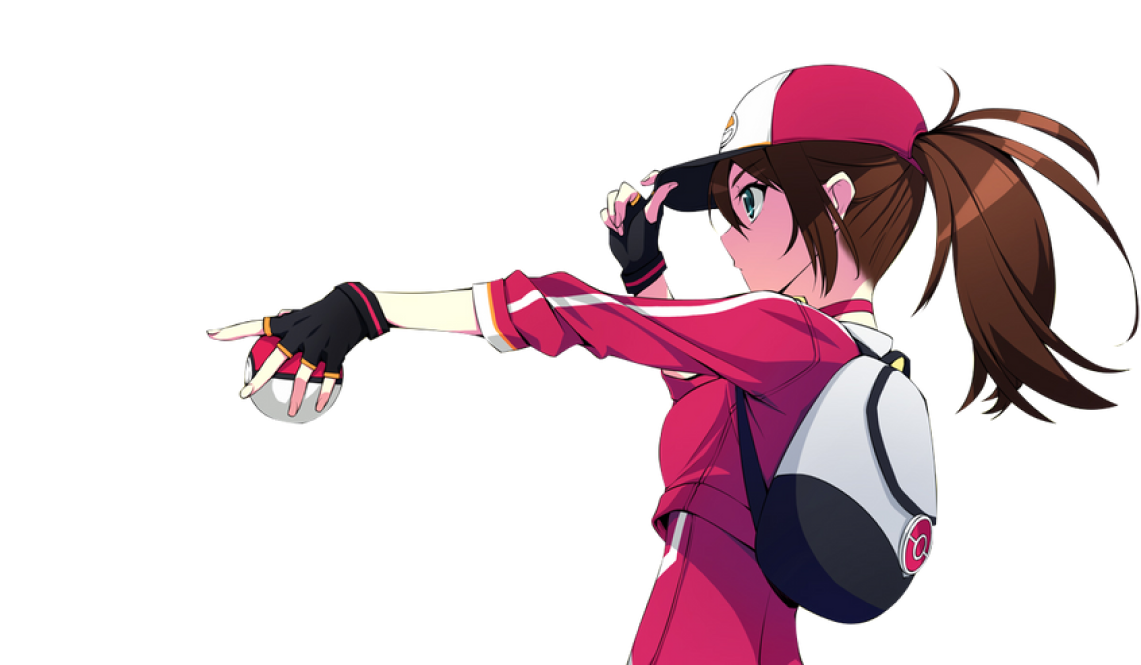
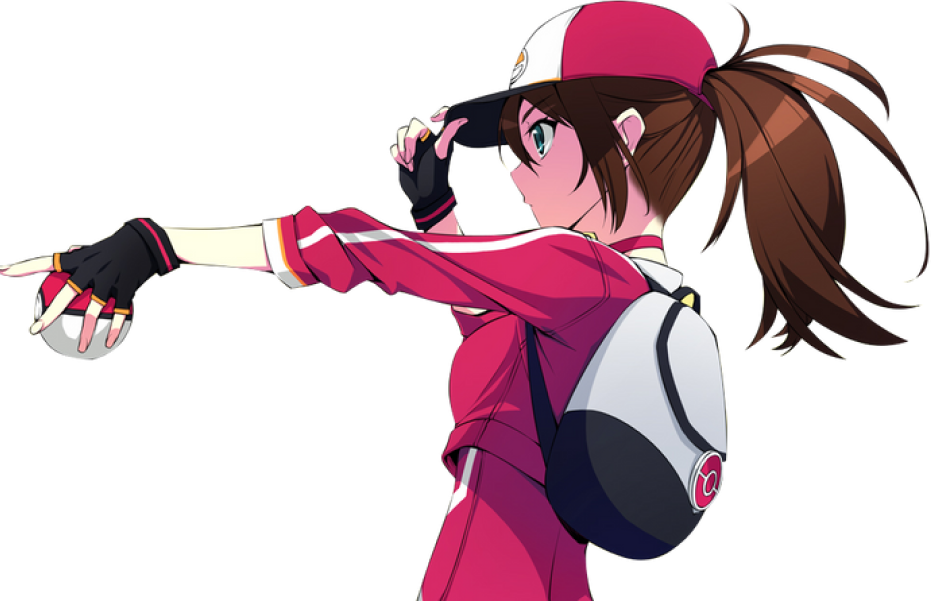
problemas de reponsividades resolvidos

diff --git a/pokedex/src/pages/Home/index.jsx b/pokedex/src/pages/Home/index.jsx
@@ -10,33 +10,36 @@ const Main = styled.div`
   background-image: url(${background}) ;
   background-size: cover ;
   min-height: 100vh ;
-  min-width: 100vh ;
 `
 
 const Logo = styled.div`
-  height: 27vh;
+  margin-left: auto ;
+  margin-right: auto ;
+  height: 28.5vh ;
+  width: 45%;
   display: flex;
   justify-content: center;
 `
 
 const ImgLogo = styled.img`
-  height: 58vh ;
-  margin-top: -10.2vh ;
-  
+  width: 100% ;
+  padding: 10px ;
 `
 
 const Person = styled.div`
-  bottom: 5px ;
+  margin-right: 2px ;
+  margin-bottom: -10px ;
 `
 
 const ImgPerson = styled.img`
-  height: 64vh ;
-  margin-bottom: -5px ;
+  width: 100% ;
+  height: 65vh ;
 `
 
 const Container = styled.div`
+  width: 100% ;
   display: flex ;
-  justify-content: flex-end;
+  justify-content: space-between;
   align-items: center;
   position: fixed ;
   bottom: 0px ;
@@ -45,22 +48,19 @@ const Container = styled.div`
 const DivButton = styled.div`
   display: flex ;
   justify-content: center;
-  width: 95vh ;
+  width: 50.1% ;
+  height: 10vh ;
 `
 
 const Button = styled.button`
-  margin-right: 17% ;
-  height: 8.5vh ;
-  width: 33.5% ;
-  font-size: 140%;
-  color: #1E82DE ;
+  width: 32%;
   display: flex ;
   align-items: center;
   justify-content: center ;
-  font-weight: bold ;
   border-radius: 15px ;
   border: 0px ;
   background-color: white ;
+  white-space: normal !important;
   :hover{
     cursor: pointer;
     transform: scale(1.05);
@@ -70,6 +70,10 @@ const Button = styled.button`
 
 const PButton = styled.p`
   margin-right: 10% ;
+  font-size: 22px;
+  font-weight: bold ;
+  color: #1E82DE ;
+  
 `
 
 const Home = () => {

diff --git a/pokedex/src/pages/DetailsPages/index.jsx b/pokedex/src/pages/DetailsPages/index.jsx
@@ -10,44 +10,44 @@ const Main = styled.div`
 const Container = styled.div`
   display: flex ;
   justify-content: center;
-  margin-top: 8vh;
-  justify-content: space-evenly;
-  
+  margin-top: 4%;
+  justify-content: space-evenly 
 `
 
 const CardLeft = styled.div`
-  width: 380px;
-	height: 340px;
+  width: 19.8%;
+  height: 36.6vh;
 	background: #1E82DE;
 	transform: perspective(300px) rotateY(25deg);
-  margin-top: 9.3vh ;
+  margin-top: 4.1% ;
   border-radius: 10px ;
+  
 `
 
 const CardCenter = styled.div`
-  width: 550px;
-	height: 550px;
+  width: 28.8%;
+  height: 57vh;
 	border-radius: 25px;
 	background-image: url(${background});
-  margin-top: 2vh ;
+  margin-top: 1% ;
 `
 
 const CardRight = styled.div`
-  width: 380px;
-	height: 340px;
+  width: 19.8%;
+	height: 36.6vh;
 	background: #1E82DE;
 	transform: perspective(300px) rotateY(-25deg);
-  margin-top: 8.3vh ;
+  margin-top: 4.1% ;
   border-radius: 10px ;
 `
 
 const CardBotton = styled.div`
-  width: 64vw ;
-  height: 180px ;
+  width: 64% ;
+  height: 19vh ;
   background: #1E82DE;
   margin-left: auto ;
   margin-right: auto ;
-  margin-top: 10vh ;
+  margin-top: 5% ;
   border-radius: 10px ;
   display: flex ;
   justify-content: space-around;
@@ -56,8 +56,8 @@ const CardBotton = styled.div`
 
 const DivCard2 = styled.div`
   border: 2px solid red;
-  height: 110px ;
-  width: 150px ;
+  height: 12vh;
+  width: 12.5% ;
 `
 
 function DetailsPages() {
